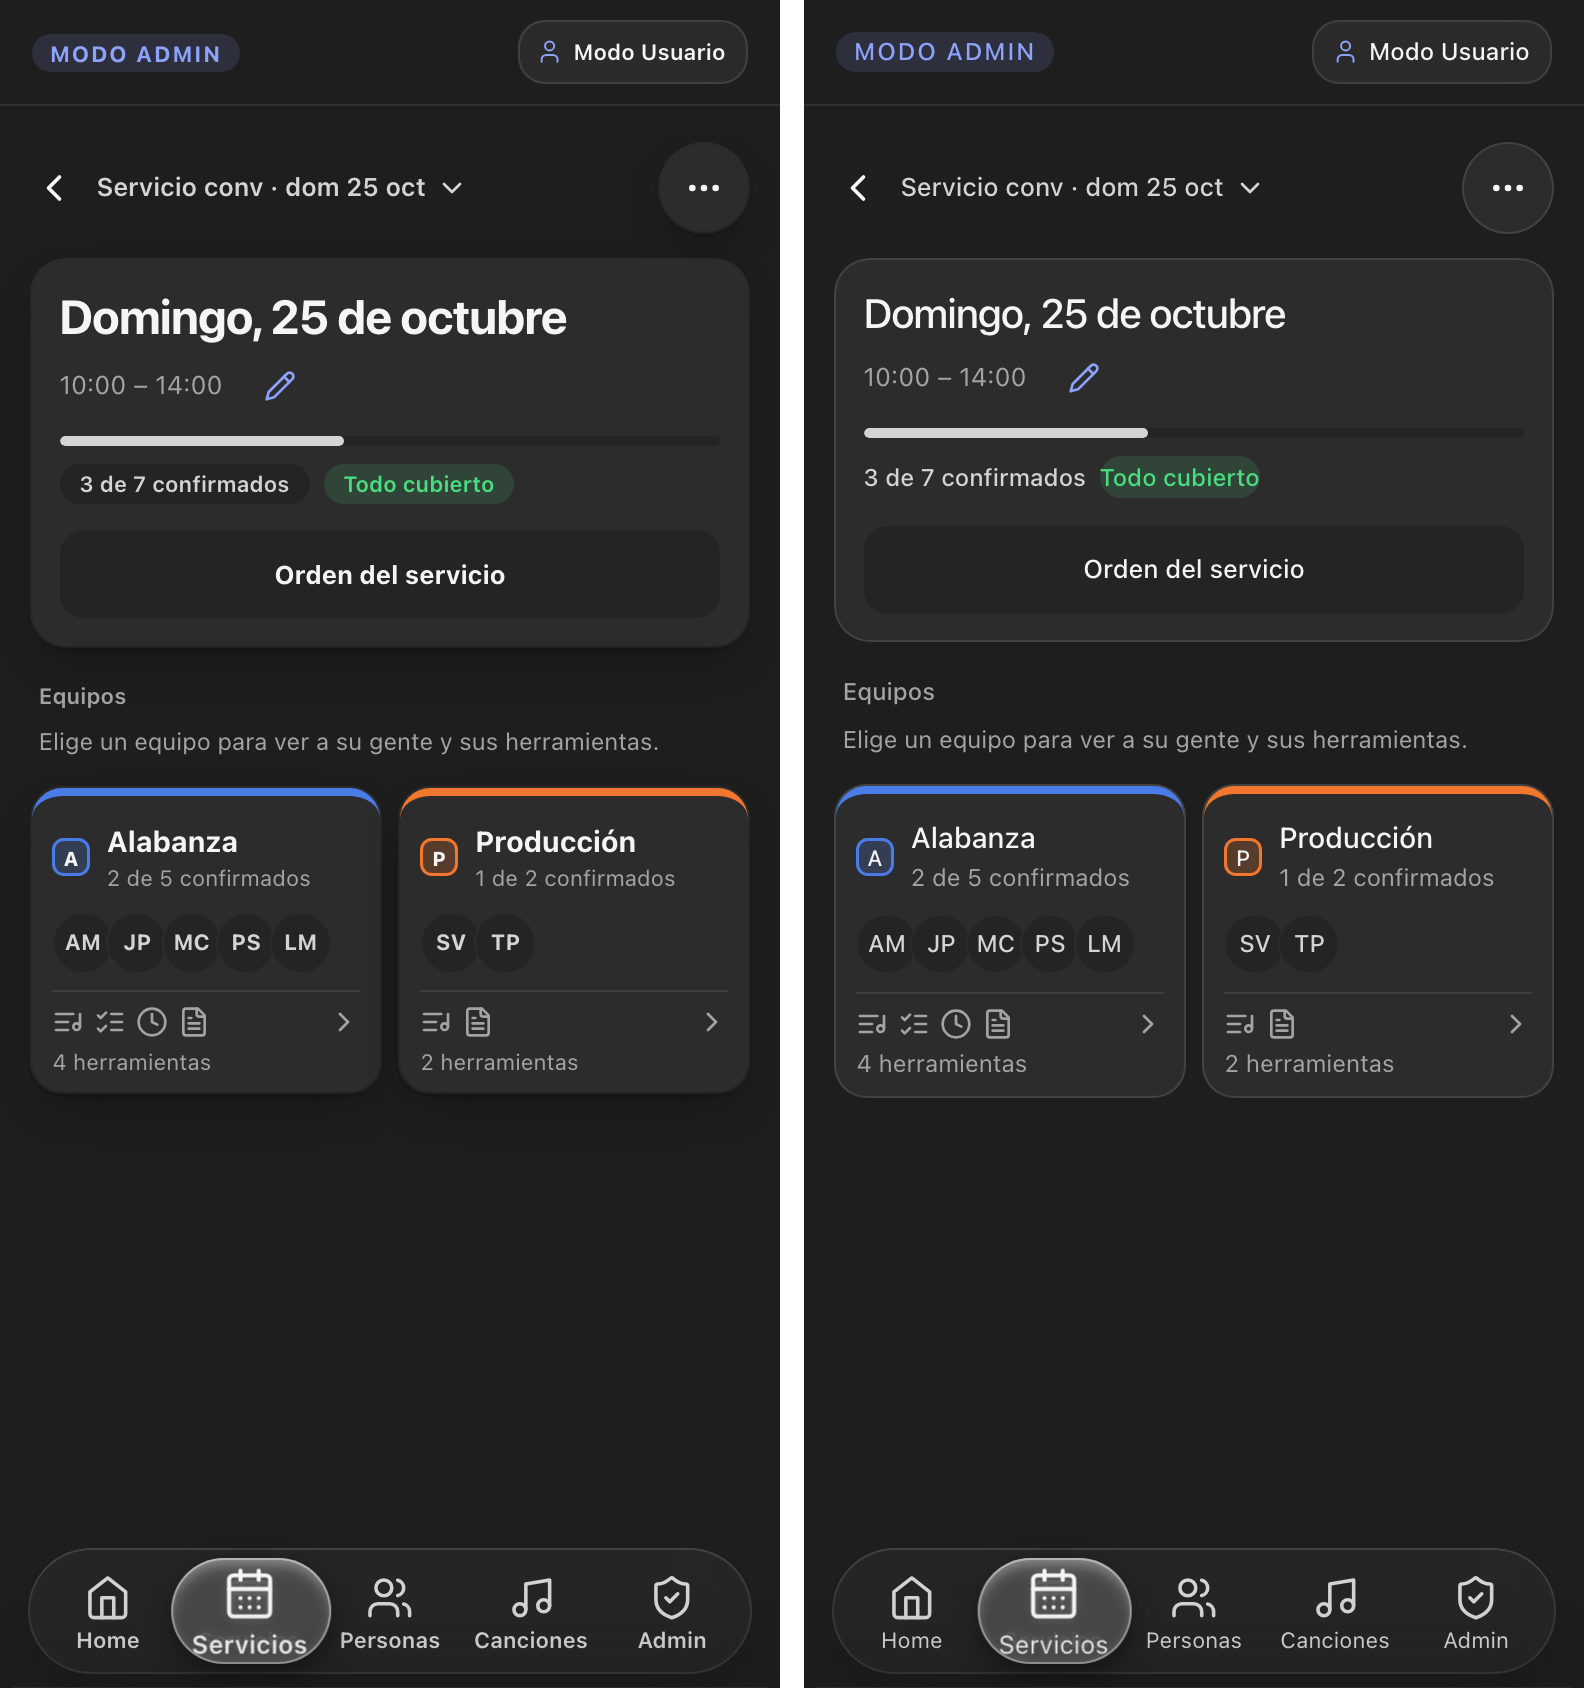
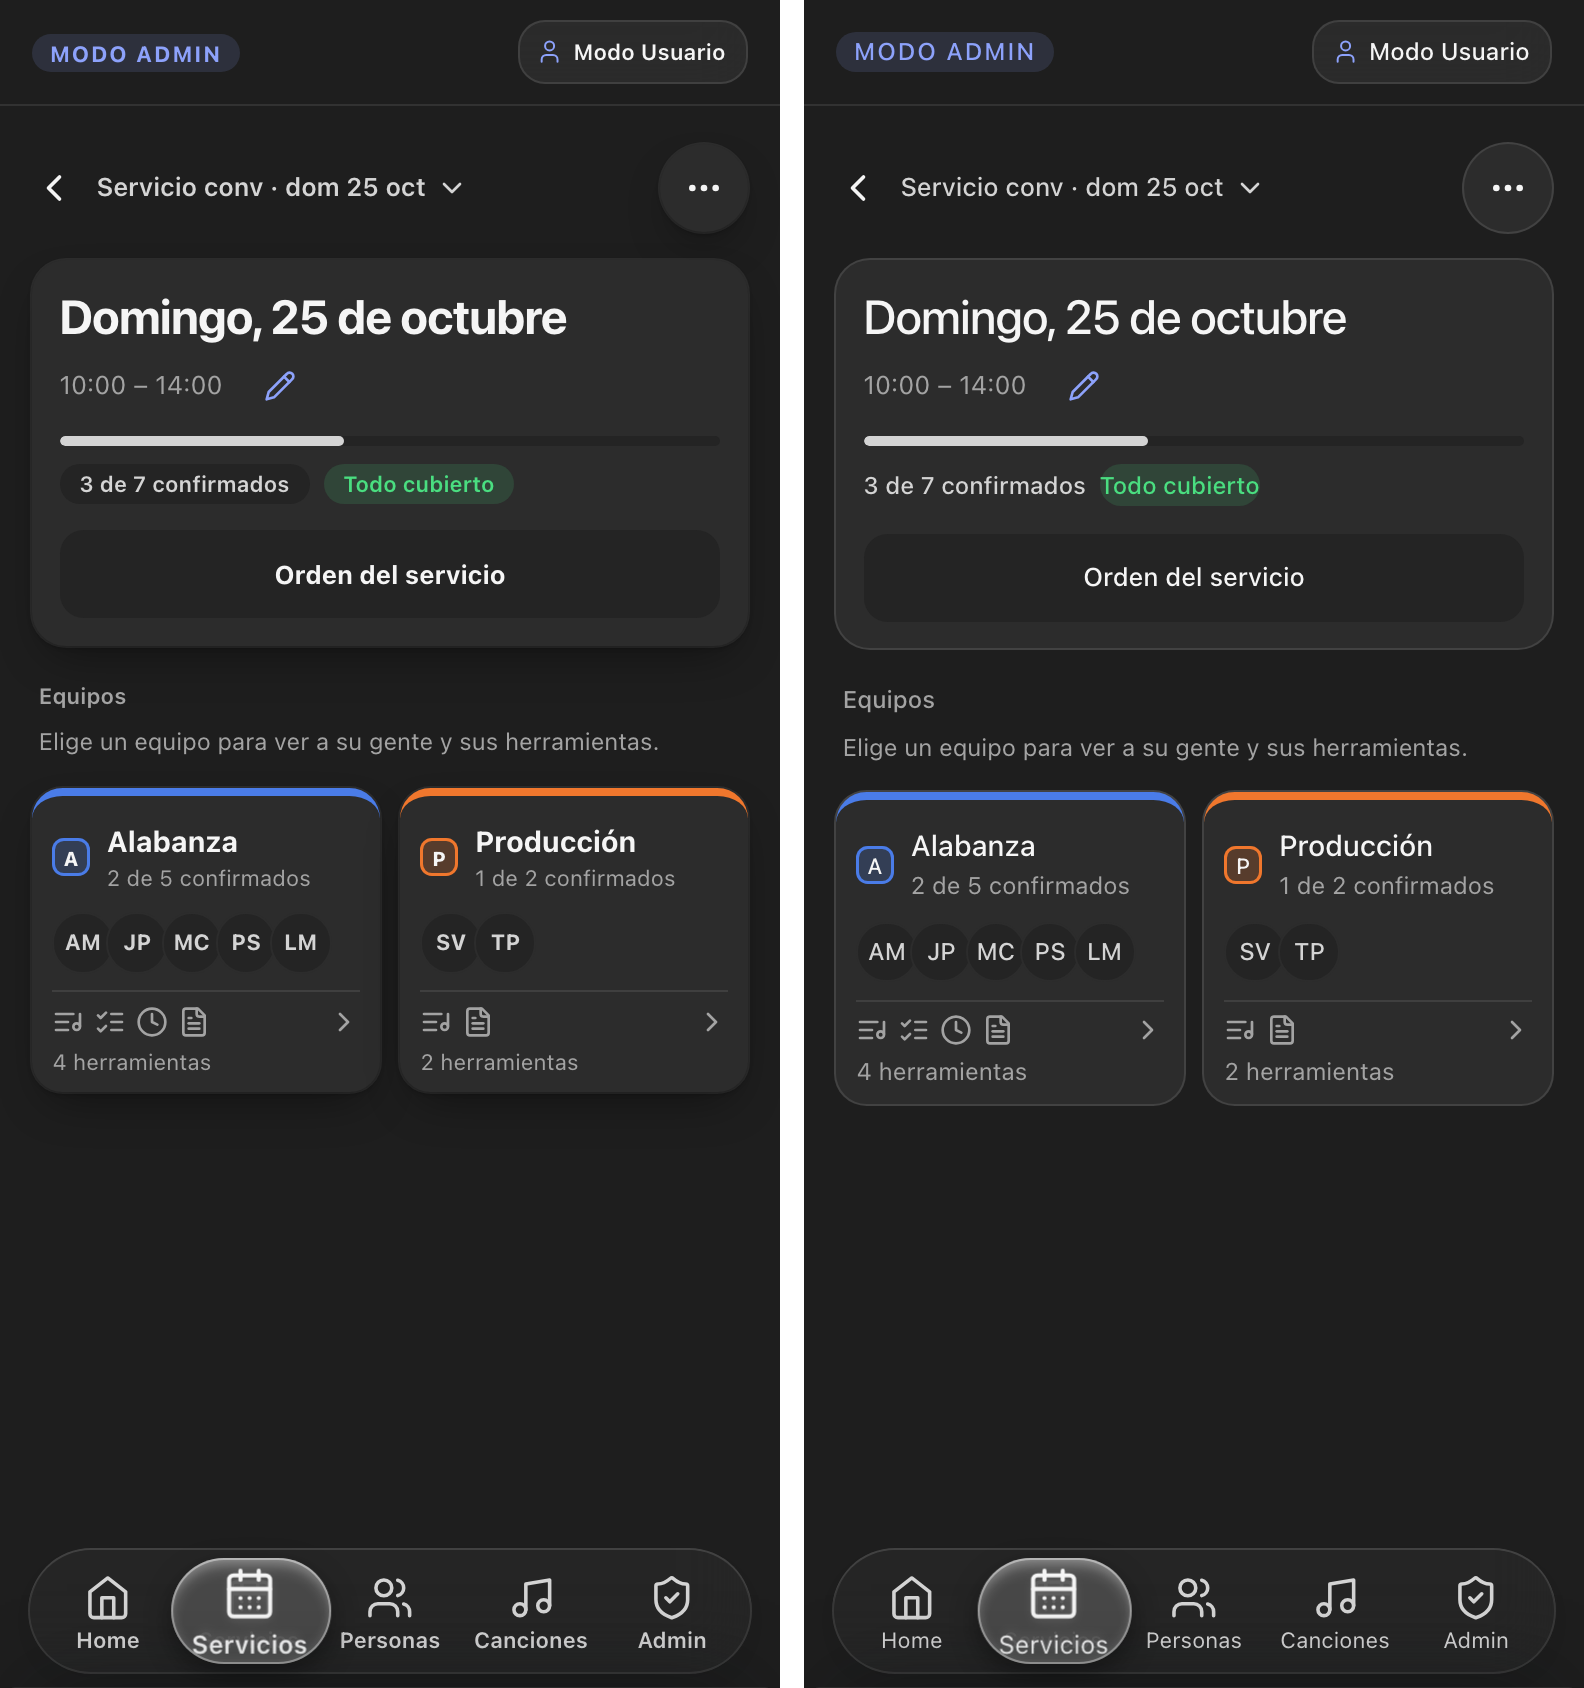
fix: la fecha del servicio vuelve a 23,8 px reales (--t-fecha 1.75rem) y el número del día tiene su propio rol
Parejas p03 y p09 regeneradas y LEEME actualizado; el resto de las parejas queda idéntico.

diff --git a/app/ancora-tipo.css b/app/ancora-tipo.css
@@ -1,6 +1,6 @@
 /* Tokens de tipografía. En ESCRITORIO cada token vale lo que valía el valor suelto al que reemplazó (paso 0). En TELÉFONO (max-width:768px, el bloque de abajo) los valores salen de los ROLES (paso 1): se cambian aquí, en un solo lugar.
    Pesos: normal 400 · medio 500 · fuerte 600 · negrita 700 · negra 800. En teléfono 600, 700 y 800 valen 500; el 600 se reserva para las cifras (--w-…--cifra) y el botón principal (--w-…--principal); la barra inferior usa 400 en la etiqueta inactiva (--w-…--nav).
-   Tamaños (antes de la escala 0,85): un token por valor que había (--fs-p75rem = .75rem …) y variantes «--fs-…--rol» para las pocas reglas cuyo rol difiere del de su valor. Roles: minimo 11 px (piso) · etiqueta 12 px (piso de etiquetas y chips) · secundario 15 · cuerpo 16 · nombre 17 · seccion 18 · grande 20 · fecha 24 · cifra 26 · titulo 34.
+   Tamaños (antes de la escala 0,85): un token por valor que había (--fs-p75rem = .75rem …) y variantes «--fs-…--rol» para las pocas reglas cuyo rol difiere del de su valor. Roles: minimo 11 px (piso) · etiqueta 12 px (piso de etiquetas y chips) · secundario 15 · cuerpo 16 · nombre 17 · seccion 18 · grande 20 · dia 24 (número del día) · fecha 28 (fecha del servicio, 23,8 px reales) · cifra 26 · titulo 34.
    Superficies (solo teléfono): --anc-e1 = aro de 1 px, --anc-e2 más suave. No se tocan aquí: globals.css, songs.css, app.module.css, ui.module.css, estilos en línea de TSX. */
 :root {
   --w-normal: 400;
@@ -97,7 +97,8 @@
     --t-nombre: 1.0625rem;
     --t-seccion: 1.125rem;
     --t-grande: 1.25rem;
-    --t-fecha: 1.5rem;
+    --t-dia: 1.5rem;
+    --t-fecha: 1.75rem;
     --t-cifra: 1.625rem;
     --t-titulo: 2.125rem;
     --w-fuerte: 500; --w-negrita: 500; --w-negra: 500;
@@ -106,7 +107,7 @@
     --w-negrita--cifra: 600;
     --w-negrita--principal: 600;
     --fs-0p96875rem: var(--t-secundario);
-    --fs-1p5rem: var(--t-fecha);
+    --fs-1p5rem: var(--t-dia);
     --fs-1p25rem: var(--t-grande);
     --fs-1p75rem: var(--t-cifra);
     --fs-1p125rem: var(--t-seccion);
@@ -126,7 +127,7 @@
     --fs-calc-19px-esc: var(--t-seccion);
     --fs-calc-20px-esc: var(--t-grande);
     --fs-calc-22px-esc: var(--t-grande);
-    --fs-calc-24px-esc: var(--t-fecha);
+    --fs-calc-24px-esc: var(--t-dia);
     --fs-calc-26px-esc: var(--t-cifra);
     --fs-calc-28px-esc: var(--t-cifra);
     --fs-calc-32px-esc: var(--t-cifra);

diff --git a/scripts/verificacion/tipografia-paso1.js b/scripts/verificacion/tipografia-paso1.js
@@ -14,9 +14,9 @@ const CAL = 'components/team-blocks-calendar.module.css'
     .replace(/(font-weight\s*:\s*)(\d{3})(?=\s*[;}])/g, (m, a, n) => `${a}var(--w-${PESO[n]})`)
     .replace(/(font-size\s*:\s*)([^;}!]+?)(?=\s*[;}])/g, (m, a, v) => { const k = slug(v.trim()); if (!defecto.has('--' + k)) defecto.set('--' + k, v.trim()); return `${a}var(--${k})` })).join('')) }
 // ── 2) roles por tamaño (segundo valor real = rem × 13,6) ──
-const ROL = { minimo: 'max(11px, .75rem)', etiqueta: 'max(12px, .75rem)', secundario: '.9375rem', cuerpo: '1rem', nombre: '1.0625rem', seccion: '1.125rem', grande: '1.25rem', fecha: '1.5rem', cifra: '1.625rem', titulo: '2.125rem' }
+const ROL = { minimo: 'max(11px, .75rem)', etiqueta: 'max(12px, .75rem)', secundario: '.9375rem', cuerpo: '1rem', nombre: '1.0625rem', seccion: '1.125rem', grande: '1.25rem', dia: '1.5rem', fecha: '1.75rem', cifra: '1.625rem', titulo: '2.125rem' }
 const rolDe = (k, v) => { if (k === '--fs-16px') return null; const r = px(v); if (isNaN(r)) throw new Error('sin px: ' + k)
-  return r < 10.99 ? 'minimo' : r < 12 ? 'etiqueta' : r < 13.4 ? 'secundario' : r < 14 ? 'cuerpo' : r < 15 ? 'nombre' : r < 16.5 ? 'seccion' : r < 19 ? 'grande' : r < 21 ? 'fecha' : r < 28 ? 'cifra' : 'titulo' }
+  return r < 10.99 ? 'minimo' : r < 12 ? 'etiqueta' : r < 13.4 ? 'secundario' : r < 14 ? 'cuerpo' : r < 15 ? 'nombre' : r < 16.5 ? 'seccion' : r < 19 ? 'grande' : r < 21 ? 'dia' : r < 28 ? 'cifra' : 'titulo' }
 // ── 3) cambios por selector (nombre del archivo → selector → rol de tamaño y/o peso) ──
 const NOMBRE = { 'ficha.module.css': ['.nombre', '.grande .nombre'], 'pantallas.module.css': ['.tarjetaNombre', '.posNombre', '.posPersonaNombre', '.opcionNombre'], 'home-admin-movil.module.css': ['.tarjetaNombre', '.cobNombre'],
   'perfil.module.css': ['.nombre'], 'equipo-telefono.module.css': ['.nombre', '.yo .nombre'], 'servicio.module.css': ['.nombre'], 'lider-movil.module.css': ['.cabNombre', '.personaNombre'], 'canciones.module.css': ['.nombre'],

diff --git a/tests/portal/tipografia-tokens.test.js b/tests/portal/tipografia-tokens.test.js
@@ -23,9 +23,9 @@ const crudo = leer('app/ancora-tipo.css'), [defecto, telefono] = crudo.split('/*
 const tel = (telefono || '').replace(/^[^\n]*\n/, '')
 const ROLES = Object.fromEntries([...tel.matchAll(/--t-(\w+):\s*([^;]+);/g)].map(m => [m[1], m[2].trim()]))
 t('los valores nuevos viven solo dentro de @media (max-width:768px); el bloque por defecto no tiene roles', () => { assert.ok(/^\s*@media \(max-width:768px\)/.test(tel)); assert.ok(!/--t-/.test(defecto)) })
-t('hay diez roles de tamaño y ninguno baja de 11 px reales (piso de 12 px para etiquetas)', () => { assert.deepEqual(Object.keys(ROLES), ['minimo', 'etiqueta', 'secundario', 'cuerpo', 'nombre', 'seccion', 'grande', 'fecha', 'cifra', 'titulo'])
+t('hay once roles de tamaño y ninguno baja de 11 px reales (piso de 12 px para etiquetas)', () => { assert.deepEqual(Object.keys(ROLES), ['minimo', 'etiqueta', 'secundario', 'cuerpo', 'nombre', 'seccion', 'grande', 'dia', 'fecha', 'cifra', 'titulo'])
   const real = v => { const r = v.match(/^max\((\d+)px, ([\d.]+)rem\)$/); return r ? Math.max(+r[1], +r[2] * 13.6) : parseFloat(v) * 13.6 }
-  for (const [k, v] of Object.entries(ROLES)) assert.ok(real(v) >= 11, `${k}: ${v}`); assert.equal(real(ROLES.etiqueta), 12); assert.equal(ROLES.fecha, '1.5rem'); assert.equal(ROLES.titulo, '2.125rem') })
+  for (const [k, v] of Object.entries(ROLES)) assert.ok(real(v) >= 11, `${k}: ${v}`); assert.equal(real(ROLES.etiqueta), 12); assert.equal(ROLES.fecha, '1.75rem'); assert.equal(ROLES.dia, '1.5rem'); assert.equal(ROLES.titulo, '2.125rem') })
 t('en teléfono 600, 700 y 800 valen 500; el 600 solo en cifras y botón principal (--w-…--cifra y --w-…--principal)', () => {
   assert.match(tel, /--w-fuerte: 500; --w-negrita: 500; --w-negra: 500;/)
   const seis = [...tel.matchAll(/(--w-[\w-]+):\s*600;/g)].map(m => m[1]); assert.ok(seis.length >= 3); for (const k of seis) assert.match(k, /--(cifra|principal)$/, k)

diff --git a/docs/verificacion-rediseno/tipografia-paso1/LEEME.md b/docs/verificacion-rediseno/tipografia-paso1/LEEME.md
@@ -4,10 +4,10 @@ Base: `c577fd9` (dev). Tag previo: `pre-tipo-paso1-dev-2026-11-18`. Solo teléfo
 
 ## Cómo está hecho (un solo lugar)
 - `app/ancora-tipo.css`: el bloque por defecto (escritorio) conserva cada valor de antes; el bloque `/* === TELÉFONO (paso 1) === */`, dentro de `@media (max-width:768px)`, define los **roles** y hace que cada token de valor apunte a uno. Para cambiar la tipografía de teléfono se edita ese bloque.
-- **Tamaños** (antes de la escala 0,85): `minimo` 11 px (piso) · `etiqueta` 12 px (piso de etiquetas, chips y textos chicos) · `secundario` 15 · `cuerpo` 16 · `nombre` 17 · `seccion` 18 · `grande` 20 · `fecha` 24 · `cifra` 26 · `titulo` 34.
+- **Tamaños** (antes de la escala 0,85): `minimo` 11 px (piso) · `etiqueta` 12 px (piso de etiquetas, chips y textos chicos) · `secundario` 15 · `cuerpo` 16 · `nombre` 17 · `seccion` 18 · `grande` 20 · `dia` 24 (número del día en fichas e Inicio, 20,4 px reales) · `fecha` 28 (fecha del servicio, 23,8 px reales, igual que antes del paso 1) · `cifra` 26 · `titulo` 34.
   Cada token de valor se asigna por su tamaño real: menos de 11 px → `minimo` (el calendario del admin, etiquetas de Personas, el chip de equipo suben a 11); de 11 a 12 px → `etiqueta` (las 11 px del piso suben a 12); y así hacia arriba. Los campos de texto (`--fs-16px`) no se tocan: no bajan de 16 px.
 - **Pesos**: en teléfono 600, 700 y 800 valen 500 (títulos, fecha, nombres, botones, chips, días del calendario, etiqueta activa de la barra). El 600 queda solo en cifras (`--w-…--cifra`: cifras del Home, del líder, número del día de la ficha y de Inicio, pie de Orden) y botón principal (`--w-…--principal`: «Responder», «Reintentar», «Publicar», el principal de Nueva canción, `.botonPrincipal`). Etiqueta inactiva de la barra inferior 400 (`--w-fuerte--nav`), la activa 500, y los días de otro mes 400 (en el Home y en el calendario del admin).
-- **Roles por selector** (14 variantes `--fs-…--rol` / `--w-…--rol`; en escritorio valen lo de antes): título de pantalla igual en todas (también el del líder y la pantalla de Orden); fecha del servicio 24 px (`.heroTit`, Inicio y Servicio del músico); nombre en tarjeta y fila igual en ~35 selectores (fichas, tarjetas de equipo, personas, canciones, chats, líder…).
+- **Roles por selector** (14 variantes `--fs-…--rol` / `--w-…--rol`; en escritorio valen lo de antes): título de pantalla igual en todas (también el del líder y la pantalla de Orden); fecha del servicio 28 antes de la escala = 23,8 px reales (`.heroTit`, Inicio y Servicio del músico); nombre en tarjeta y fila igual en ~35 selectores (fichas, tarjetas de equipo, personas, canciones, chats, líder…).
 - **Superficies** (solo teléfono, `:root:root:root` para ganar a los bloques de tema): `--anc-e1` = `0 0 0 1px var(--anc-ring)` (el aro sigue el tema; en oscuro se ve: el anillo claro al 16 %); `--anc-e2` = aro + `0 6px 18px -10px rgba(0,0,0,.28)`.
 - **Chips**: los neutros pasan a texto sin relleno (`.chip` de la pantalla del servicio, «Tono/BPM» de la canción). Conservan fondo: «Faltan N» y «Todo cubierto» (`chipFalta`, `chipOk`), «Tu equipo», los de estado (`chipEstado` en el héroe del servicio; los de la ficha de la lista: «Sin convocar», «Convocado»…), «Modo Admin/Líder» y los filtros de Personas.
 - **Calendario del admin** (`team-blocks-calendar.module.css`): ahora usa los tokens (entra a la lista de CSS de teléfono); letras y números suben al mínimo, pesos a 500 y los días de otro mes a 400 solo en teléfono.
@@ -20,7 +20,7 @@ Base: `c577fd9` (dev). Tag previo: `pre-tipo-paso1-dev-2026-11-18`. Solo teléfo
 - Escritorio idéntico (1280 px; y 820 px en dos escenarios): Home, Personas, calendario/Servicio/Personas del admin, líder, portal (Inicio, Servicios, Perfil, Servicio, Canciones), claro y oscuro, PNG y HTML normalizado: idénticos salvo dos manchas de ruido que también aparecen entre dos corridas del MISMO build (un rectángulo en Personas y 189 px del campo de fecha en «Mis datos») y la página del líder que a veces se captura a medio cargar.
 
 ## Lo que decidí y conviene revisar
-- «Fecha del servicio 24 px» lo tomé como 24 antes de la escala (20,4 px reales): **más chica** que los 23,8 de antes. Si se quería 24 reales, es un cambio de un valor (`--t-fecha: 1.75rem`).
+- **Fecha del servicio (ajuste posterior):** la primera versión la dejó en 24 px antes de la escala (20,4 reales, más chica que antes). Se corrigió a `--t-fecha: 1.75rem` = 23,8 px reales, igual que antes del paso 1. Las parejas `p03-ficha-servicio` y `p09-lider` (las únicas con esa fecha) se regeneraron; las otras 36 quedaron idénticas. Para que el número del día (fichas de la lista, Inicio) no creciera con ese valor, tiene su propio rol `dia` (24 antes de la escala, 20,4 reales, sin cambio).
 - El título de pantalla del líder sube de 23,8 a 28,9 px reales (igual que el resto).
 - Las etiquetas y textos de 11–11,9 px (la mayor parte de los secundarios) pasan a 12 px: es lo que pide el piso de 12. Si se prefiere que los secundarios sigan en 11, se separa un rol.
 - La pantalla de Orden del servicio y otras pantallas del portal heredan los mismos roles.
